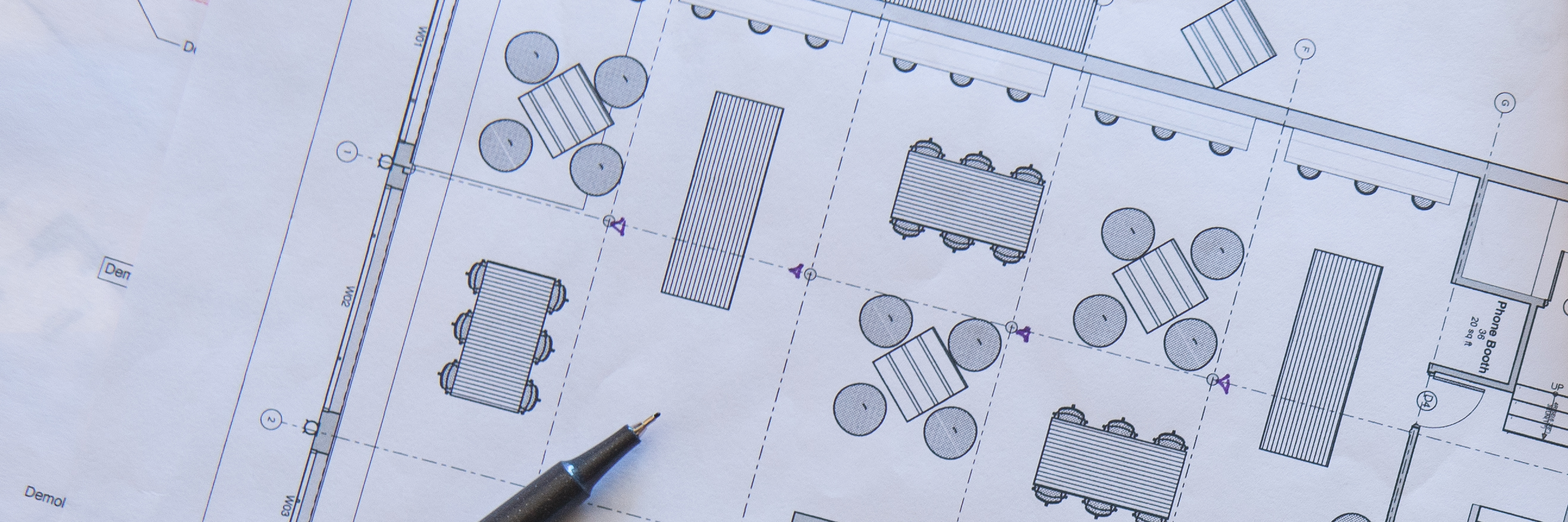
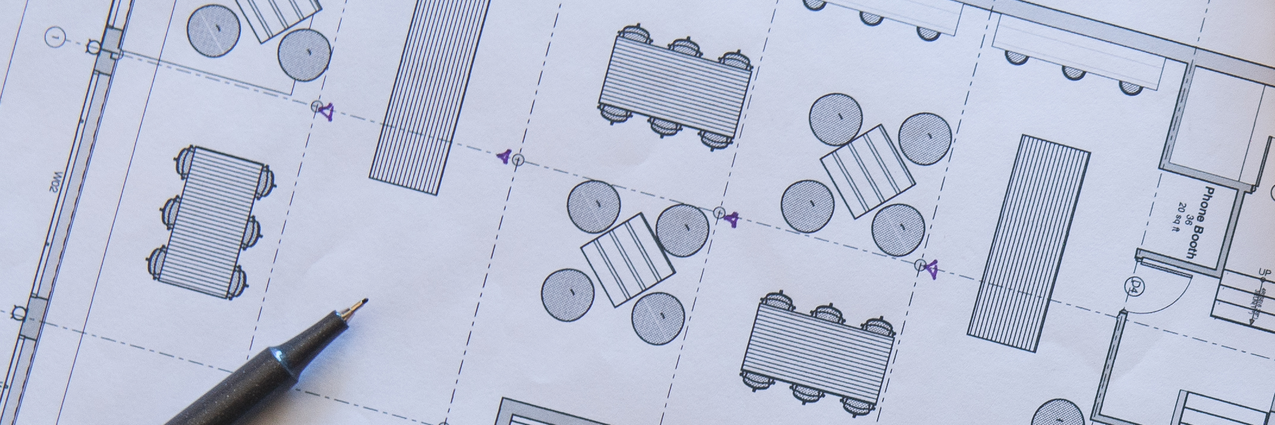
updated images

diff --git a/src/styles/responsive.css b/src/styles/responsive.css
@@ -235,10 +235,10 @@
 	}
 
 	.carousel-item {
-		background: -webkit-linear-gradient(rgba(23, 22, 23, 0.6), rgba(23, 22, 23, 0.6)), url(../images/main.jpg) no-repeat !important;
-		background: -moz-linear-gradient(rgba(23, 22, 23, 0.6), rgba(23, 22, 23, 0.6)), url(../images/main.jpg) no-repeat !important;
-		background: -ms-linear-gradient(rgba(23, 22, 23, 0.6), rgba(23, 22, 23, 0.6)), url(../images/main.jpg) no-repeat !important;
-		background: linear-gradient(rgba(23, 22, 23, 0.6), rgba(23, 22, 23, 0.6)), url(../images/main.jpg) no-repeat !important;
+		background: -webkit-linear-gradient(rgba(23, 22, 23, 0.6), rgba(23, 22, 23, 0.6)), url(../images/main.jpg) no-repeat  no-repeat -300px -10px !important;
+		background: -moz-linear-gradient(rgba(23, 22, 23, 0.6), rgba(23, 22, 23, 0.6)), url(../images/main.jpg) no-repeat  no-repeat -300px -10px !important;
+		background: -ms-linear-gradient(rgba(23, 22, 23, 0.6), rgba(23, 22, 23, 0.6)), url(../images/main.jpg) no-repeat no-repeat -300px -10px !important;
+		background: linear-gradient(rgba(23, 22, 23, 0.6), rgba(23, 22, 23, 0.6)), url(../images/main.jpg) no-repeat no-repeat -300px -10px !important;
 		background-size: cover !important;
 	}
 	.ser_tp {

diff --git a/docs/css/responsive.css b/docs/css/responsive.css
@@ -233,8 +233,8 @@
 	}
 
 	.carousel-item {
-		background: -webkit-gradient(linear, left top, left bottom, from(rgba(23, 22, 23, 0.6)), to(rgba(23, 22, 23, 0.6))), url(../images/main.jpg) no-repeat !important;
-		background: linear-gradient(rgba(23, 22, 23, 0.6), rgba(23, 22, 23, 0.6)), url(../images/main.jpg) no-repeat !important;
+		background: -webkit-gradient(linear, left top, left bottom, from(rgba(23, 22, 23, 0.6)), to(rgba(23, 22, 23, 0.6))), url(../images/main.jpg) no-repeat no-repeat -300px -10px !important;
+		background: linear-gradient(rgba(23, 22, 23, 0.6), rgba(23, 22, 23, 0.6)), url(../images/main.jpg) no-repeat no-repeat -300px -10px !important;
 		background-size: cover !important;
 	}
 	.ser_tp {
